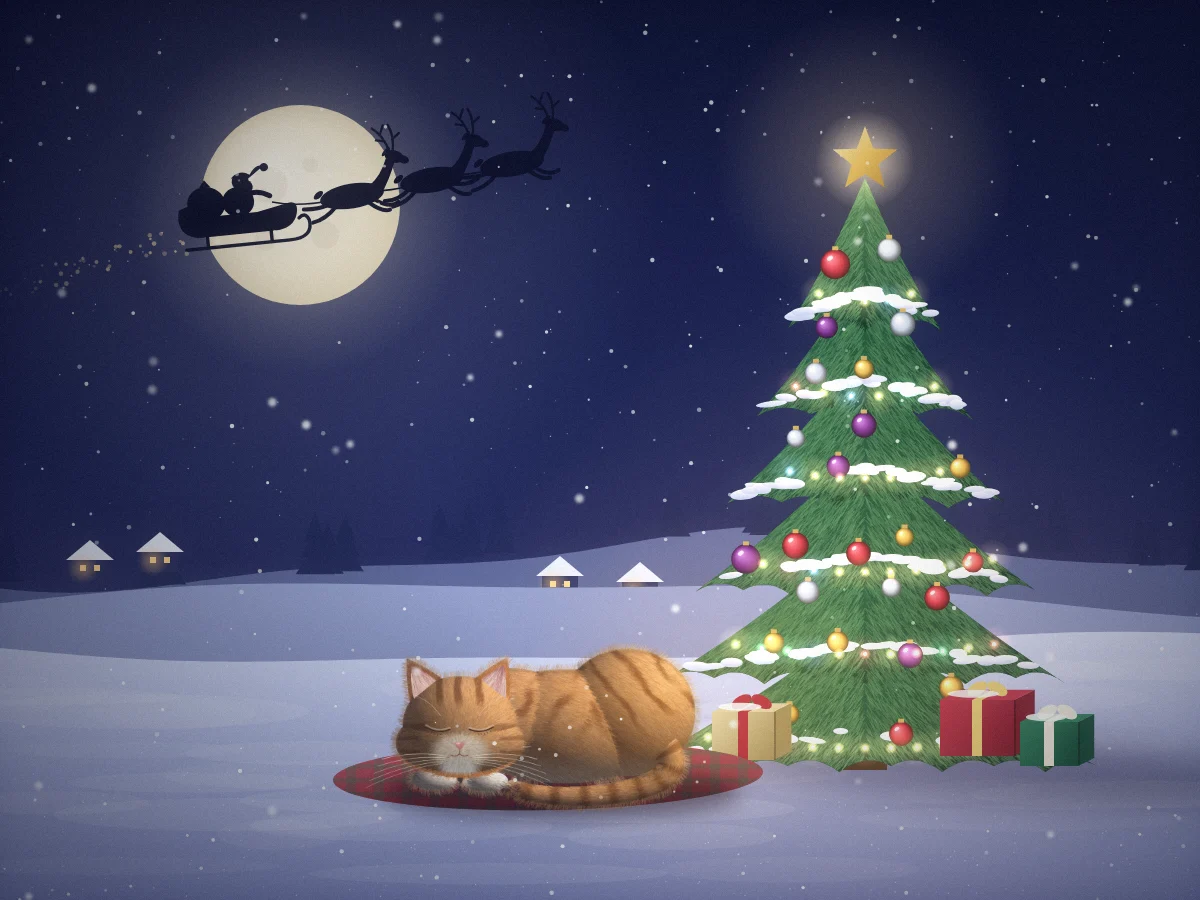
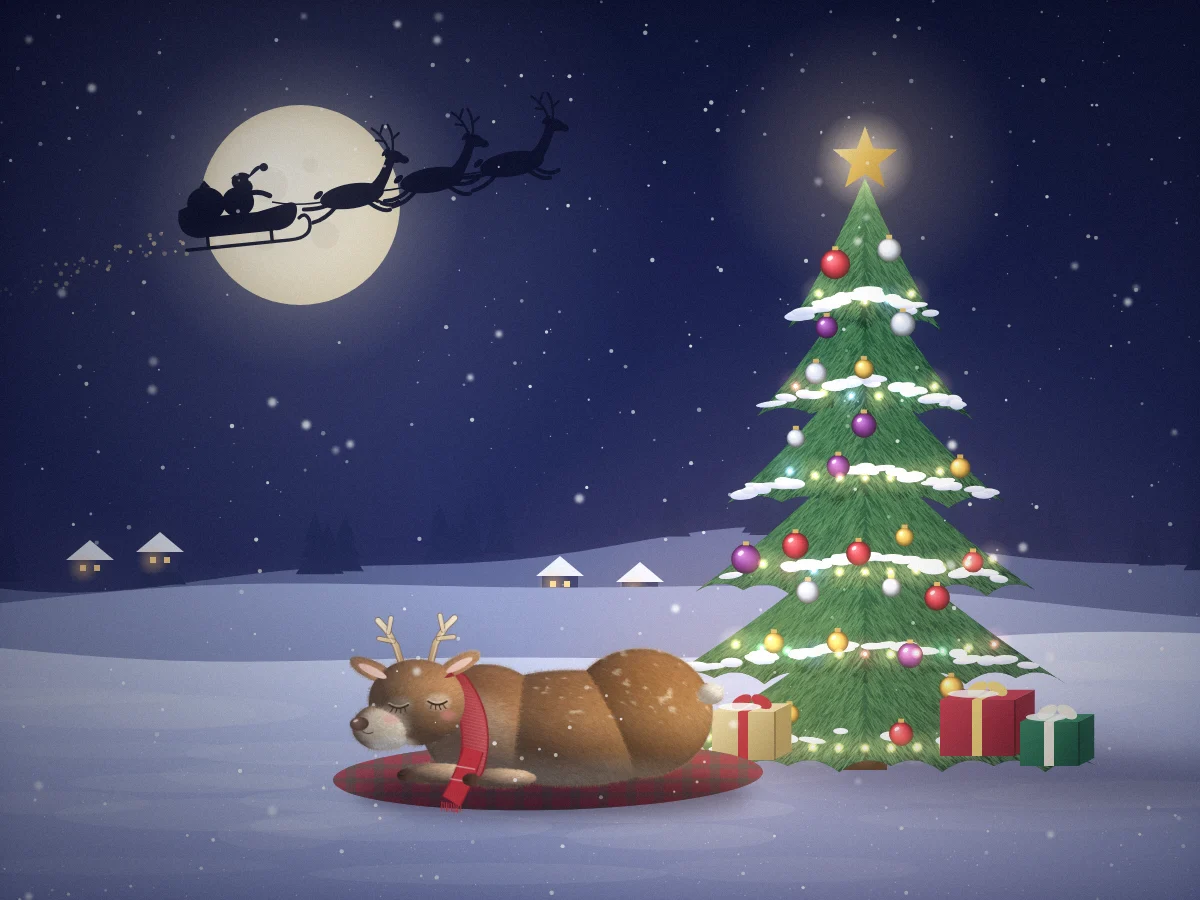
크리스마스 그림의 고양이를 아기 순록으로, 앱 아이콘을 금빛 초승달로
- 빨간 목도리를 두르고 잠든 아기 순록을 털 붓질 방식으로 그림(art/paint-reindeer.html)
- 앱 아이콘을 밤하늘 위 금빛 초승달과 별로 교체(art/icon.svg)

Claude-Session: https://claude.ai/code/session_01WQPL9icqm5yigwD27gnSHH

Changed region(s): [[0.2775, 0.6844, 0.6167, 0.9022]]

diff --git a/art/paint-reindeer.html b/art/paint-reindeer.html
@@ -1,0 +1,247 @@
+<!doctype html>
+<!-- Paints a cute sleeping reindeer (fur brushed strand by strand) on a transparent canvas, for the Christmas scene.
+     Run art/render.js to use it. -->
+<meta charset="utf-8">
+<canvas id="c" width="1200" height="900"></canvas>
+<script>
+const W = 1200, H = 900;
+const cv = document.getElementById('c'), ctx = cv.getContext('2d');
+let seed = 1224;
+const rnd = () => { seed |= 0; seed = seed + 0x6D2B79F5 | 0; let t = Math.imul(seed ^ seed >>> 15, 1 | seed); t = t + Math.imul(t ^ t >>> 7, 61 | t) ^ t; return ((t ^ t >>> 14) >>> 0) / 4294967296; };
+const clamp = (v, a = 0, b = 1) => Math.max(a, Math.min(b, v));
+const lerp = (a, b, t) => a + (b - a) * t;
+const mix = (c1, c2, t) => [lerp(c1[0], c2[0], t), lerp(c1[1], c2[1], t), lerp(c1[2], c2[2], t)];
+const smooth = (a, b, x) => { const t = clamp((x - a) / (b - a)); return t * t * (3 - 2 * t); };
+// value noise
+const NG = 256, grid = new Float32Array(NG * NG).map(() => rnd());
+function noise(x, y) {
+  const xi = Math.floor(x), yi = Math.floor(y), xf = x - xi, yf = y - yi;
+  const g = (i, j) => grid[((j & 255) * NG) + (i & 255)];
+  const u = xf * xf * (3 - 2 * xf), v = yf * yf * (3 - 2 * yf);
+  return lerp(lerp(g(xi, yi), g(xi + 1, yi), u), lerp(g(xi, yi + 1), g(xi + 1, yi + 1), u), v);
+}
+const fbm = (x, y) => noise(x, y) * 0.6 + noise(x * 2.1, y * 2.1) * 0.3 + noise(x * 4.3, y * 4.3) * 0.1;
+
+/* ---------------- geometry ---------------- */
+const BODY = { x: 720, y: 600, rx: 270, ry: 135 };
+const HAUNCH = { x: 880, y: 565, rx: 168, ry: 150 };
+const CHEST = { x: 520, y: 590, rx: 150, ry: 138 };
+const HEAD = { x: 360, y: 540, rx: 112, ry: 100 };
+const MUZZLE = { x: 282, y: 598, rx: 72, ry: 54 };
+const EARS = [{ x: 258, y: 466, rx: 58, ry: 21, rot: 0.45 }, { x: 458, y: 452, rx: 56, ry: 20, rot: -0.5 }];
+const LEGS = [{ x: 410, y: 706, rx: 88, ry: 24 }, { x: 556, y: 716, rx: 82, ry: 23 }];
+const TAIL = { x: 1042, y: 520, rx: 32, ry: 25 };
+const ell = (e) => { const p = new Path2D(); p.ellipse(e.x, e.y, e.rx, e.ry, e.rot || 0, 0, Math.PI * 2); return p; };
+const headPath = () => { const p = ell(HEAD); p.addPath(ell(MUZZLE)); EARS.forEach((e) => p.addPath(ell(e))); return p; };
+const parts = [
+  { id: 1, path: () => { const p = ell(BODY); p.addPath(ell(HAUNCH)); p.addPath(ell(CHEST)); return p; } },
+  { id: 2, path: () => ell(TAIL) },
+  { id: 3, path: () => { const p = ell(LEGS[0]); p.addPath(ell(LEGS[1])); return p; } },
+  { id: 4, path: headPath },
+];
+
+/* part-id map + soft mask */
+const idC = document.createElement('canvas'); idC.width = W; idC.height = H; const ic = idC.getContext('2d');
+parts.forEach(pt => { ic.fillStyle = `rgb(${pt.id * 60},0,0)`; ic.fill(pt.path()); });
+const idData = ic.getImageData(0, 0, W, H).data;
+const partAt = (x, y) => { x |= 0; y |= 0; if (x < 0 || y < 0 || x >= W || y >= H) return 0; return Math.round(idData[(y * W + x) * 4] / 60); };
+const mC = document.createElement('canvas'); mC.width = W; mC.height = H; const mc = mC.getContext('2d');
+mc.fillStyle = '#fff'; parts.forEach(pt => mc.fill(pt.path()));
+const mRaw = mc.getImageData(0, 0, W, H).data;
+// separable box blur (3 passes ~ gaussian) of the silhouette, used for edges, rim light and occlusion
+const mData = (() => {
+  let a = new Float32Array(W * H); for (let i = 0; i < W * H; i++) a[i] = mRaw[i * 4 + 3] / 255;
+  const r = 9, tmp = new Float32Array(W * H);
+  for (let pass = 0; pass < 3; pass++) {
+    for (let y = 0; y < H; y++) { let acc = 0; for (let x = -r; x <= r; x++) acc += a[y * W + clamp(x, 0, W - 1)];
+      for (let x = 0; x < W; x++) { tmp[y * W + x] = acc / (2 * r + 1); acc += a[y * W + Math.min(W - 1, x + r + 1)] - a[y * W + Math.max(0, x - r)]; } }
+    for (let x = 0; x < W; x++) { let acc = 0; for (let y = -r; y <= r; y++) acc += tmp[clamp(y, 0, H - 1) * W + x];
+      for (let y = 0; y < H; y++) { a[y * W + x] = acc / (2 * r + 1); acc += tmp[Math.min(H - 1, y + r + 1) * W + x] - tmp[Math.max(0, y - r) * W + x]; } }
+  }
+  return a;
+})();
+const softAt = (x, y) => { x = clamp(x | 0, 0, W - 1); y = clamp(y | 0, 0, H - 1); return mData[y * W + x]; };
+
+/* ---------------- shading model ---------------- */
+const LIGHT = (() => { const v = [0.62, -0.62, 0.48]; const d = Math.hypot(...v); return v.map(c => c / d); })();
+const C = { dark: [96, 60, 38], mid: [160, 106, 66], light: [200, 150, 104], cream: [244, 226, 200], white: [252, 246, 236] };
+function sphereN(e, x, y) {
+  const c = Math.cos(-(e.rot || 0)), s = Math.sin(-(e.rot || 0)), dx = x - e.x, dy = y - e.y;
+  const u = (dx * c - dy * s) / e.rx, v = (dx * s + dy * c) / e.ry; const r2 = u * u + v * v;
+  return [u, v, Math.sqrt(Math.max(0.02, 1 - r2)), r2];
+}
+const best = (list, x, y) => { const c = list.map((e) => sphereN(e, x, y)).filter((q) => q[3] < 1); return c.sort((p, q) => q[2] - p[2])[0] || sphereN(list[0], x, y); };
+function surface(x, y) {
+  const pid = partAt(x, y); if (!pid) return null;
+  let n, col, fur = [1, 0], glow = 0;
+  const nz = fbm(x / 50, y / 50);
+  if (pid === 4) {
+    const onEar = EARS.find((e) => sphereN(e, x, y)[3] < 1 && sphereN(HEAD, x, y)[3] >= 1);
+    if (onEar) {
+      const [u, v] = sphereN(onEar, x, y); n = [u * 0.3, -0.6, 0.75];
+      col = mix(C.mid, C.light, 0.3 + 0.3 * nz); fur = [Math.cos(onEar.rot) * Math.sign(u || 1), Math.sin(onEar.rot) * Math.sign(u || 1)];
+    } else {
+      const s = best([HEAD, MUZZLE], x, y); n = [s[0], s[1], s[2]];
+      col = mix(C.mid, C.light, 0.45 + 0.3 * nz);
+      col = mix(col, C.dark, smooth(-0.3, -0.85, (y - HEAD.y) / HEAD.ry) * 0.35); // a little darker on the crown
+      const md = ((x - MUZZLE.x) / 66) ** 2 + ((y - MUZZLE.y) / 50) ** 2;
+      col = mix(col, C.cream, smooth(1.3, 0.3, md));
+      const chin = smooth(1.0, 0.2, ((x - (MUZZLE.x + 20)) / 70) ** 2 + ((y - (MUZZLE.y + 40)) / 26) ** 2);
+      col = mix(col, C.white, chin);
+      [[318, 548], [408, 540]].forEach(([ex, ey]) => { col = mix(col, C.cream, smooth(1, 0.2, ((x - ex) / 38) ** 2 + ((y - ey) / 26) ** 2) * 0.55); });
+      glow = Math.max(smooth(1.2, 0.3, md), chin) * 0.5;
+      fur = [x - (MUZZLE.x - 30), y - (MUZZLE.y - 10)];
+    }
+  } else if (pid === 1) {
+    const s = best([BODY, HAUNCH, CHEST], x, y); n = [s[0], s[1] * 1.1, s[2]];
+    const v = (y - BODY.y) / BODY.ry;
+    col = mix(C.mid, C.light, 0.25 + 0.35 * nz);
+    col = mix(col, C.dark, smooth(0.0, -0.9, v) * 0.55);
+    col = mix(col, C.cream, smooth(0.3, 0.9, v) * 0.85);
+    // fawn spots scattered over the back
+    const sp = noise(x / 11, y / 11);
+    if (v < -0.05 && x > 600 && sp > 0.84) col = mix(col, C.cream, smooth(0.84, 0.9, sp) * 0.6);
+    const chestFluff = smooth(1.4, 0.2, ((x - (CHEST.x - 60)) / 130) ** 2 + ((y - (CHEST.y + 40)) / 120) ** 2);
+    col = mix(col, C.cream, chestFluff * 0.45);
+    fur = [-(y - BODY.y) / BODY.ry * 0.5 + 1, (x - BODY.x) / BODY.rx * 0.5 + 0.4];
+  } else if (pid === 2) {
+    const s = sphereN(TAIL, x, y); n = [s[0], s[1], s[2]]; col = mix(C.cream, C.white, 0.6 + 0.3 * nz); fur = [1, -0.4]; glow = 0.3;
+  } else {
+    const e = LEGS[x < 485 ? 0 : 1]; const s = sphereN(e, x, y); n = [s[0], s[1], s[2]];
+    col = mix(C.mid, C.cream, 0.35 + 0.3 * nz); fur = [-1, 0.1];
+  }
+  const nl = Math.hypot(...n); n = n.map(c => c / nl);
+  const diff = Math.max(0, n[0] * LIGHT[0] + n[1] * LIGHT[1] + n[2] * LIGHT[2]);
+  const soft = softAt(x, y);
+  const ao = 0.74 + 0.26 * smooth(0.3, 0.92, soft);
+  const bright = lerp((0.42 + 0.74 * diff) * ao, 0.95, glow);
+  const rim = smooth(0.62, 0.35, soft) * smooth(0.2, 0.7, n[0] * 0.7 - n[1] * 0.7);
+  let c = col.map(v => v * bright);
+  c = mix(c, [255, 236, 210], rim * 0.5);
+  c = mix(c, [70, 74, 120], (1 - diff) * 0.12 * (1 - glow));
+  return { c, fur, pid, soft };
+}
+
+/* ---------------- antlers (drawn first, the head covers their bases) ---------------- */
+function antler(pts, tines, flip) {
+  ctx.save(); ctx.lineCap = 'round'; ctx.lineJoin = 'round';
+  const g = ctx.createLinearGradient(pts[0][0], pts[0][1], pts[pts.length - 1][0], pts[pts.length - 1][1]);
+  g.addColorStop(0, '#B08960'); g.addColorStop(0.6, '#E2C79C'); g.addColorStop(1, '#F6E6C8');
+  const stroke = (p, w) => { ctx.strokeStyle = '#6E5236'; ctx.lineWidth = w + 3; ctx.beginPath(); ctx.moveTo(...p[0]); for (let i = 1; i < p.length; i++) ctx.lineTo(...p[i]); ctx.stroke();
+    ctx.strokeStyle = g; ctx.lineWidth = w; ctx.beginPath(); ctx.moveTo(...p[0]); for (let i = 1; i < p.length; i++) ctx.lineTo(...p[i]); ctx.stroke(); };
+  stroke(pts, 13);
+  tines.forEach((t) => stroke(t, 9));
+  ctx.strokeStyle = 'rgba(255,250,235,0.55)'; ctx.lineWidth = 2.5; ctx.beginPath(); ctx.moveTo(pts[0][0] + 3 * flip, pts[0][1]); for (let i = 1; i < pts.length; i++) ctx.lineTo(pts[i][0] + 3 * flip, pts[i][1]); ctx.stroke();
+  ctx.restore();
+}
+function antlers() {
+  antler([[326, 456], [312, 410], [290, 372], [270, 350]], [[[306, 398], [272, 392]], [[294, 378], [300, 344]]], -1);
+  antler([[392, 448], [404, 402], [426, 366], [448, 344]], [[[410, 392], [446, 388]], [[421, 372], [414, 338]]], 1);
+}
+
+/* ---------------- painting ---------------- */
+function base() {
+  ctx.save(); ctx.filter = 'blur(24px)'; ctx.fillStyle = 'rgba(20,12,30,0.5)';
+  ctx.beginPath(); ctx.ellipse(680, 752, 460, 58, 0, 0, 7); ctx.fill(); ctx.restore();
+  const img = ctx.getImageData(0, 0, W, H), d = img.data;
+  for (let y = 300; y < 860; y++) for (let x = 150; x < 1120; x++) {
+    const s = surface(x, y); if (!s) continue;
+    const i = (y * W + x) * 4;
+    d[i] = s.c[0]; d[i + 1] = s.c[1]; d[i + 2] = s.c[2]; d[i + 3] = 255;
+  }
+  ctx.putImageData(img, 0, 0);
+}
+function strokeFur(x, y, s, len, width, alpha, out, tint) {
+  let [fx, fy] = s.fur; const fl = Math.hypot(fx, fy) || 1; fx /= fl; fy /= fl;
+  if (out) { fx = out[0]; fy = out[1]; }
+  const ang = Math.atan2(fy, fx) + (rnd() - 0.5) * 0.5;
+  const ex = x + Math.cos(ang) * len, ey = y + Math.sin(ang) * len;
+  const bend = (rnd() - 0.5) * len * 0.35;
+  const jitter = 0.82 + rnd() * 0.36;
+  const c = (tint ? mix(s.c, tint, 0.4) : s.c).map(v => clamp(v * jitter, 0, 255) | 0);
+  ctx.strokeStyle = `rgba(${c[0]},${c[1]},${c[2]},${alpha})`; ctx.lineWidth = width;
+  ctx.beginPath(); ctx.moveTo(x, y); ctx.quadraticCurveTo((x + ex) / 2 - Math.sin(ang) * bend, (y + ey) / 2 + Math.cos(ang) * bend, ex, ey); ctx.stroke();
+}
+function fur() {
+  ctx.lineCap = 'round';
+  ctx.save();
+  const clip = new Path2D(); parts.forEach(pt => clip.addPath(pt.path())); ctx.clip(clip);
+  for (let k = 0; k < 150000; k++) {
+    const x = 150 + rnd() * 970, y = 300 + rnd() * 560; const s = surface(x, y); if (!s) continue;
+    strokeFur(x, y, s, s.pid === 4 ? 3 + rnd() * 5 : 5 + rnd() * 8, 0.8 + rnd() * 1, 0.35 + rnd() * 0.3);
+  }
+  ctx.restore();
+  for (let k = 0; k < 200000; k++) {
+    const x = 150 + rnd() * 970, y = 300 + rnd() * 560; const soft = softAt(x, y);
+    if (soft < 0.4 || soft > 0.64) continue; const s = surface(x, y); if (!s) continue;
+    const gx = softAt(x + 3, y) - softAt(x - 3, y), gy = softAt(x, y + 3) - softAt(x, y - 3); const gl = Math.hypot(gx, gy) || 1;
+    const lit = clamp(0.5 - gx / gl * 0.5 + gy / gl * 0.5);
+    strokeFur(x, y, s, 3 + rnd() * 5, 0.6 + rnd() * 0.6, 0.3, [-gx / gl, -gy / gl], mix([200, 150, 104], [255, 236, 208], lit));
+  }
+}
+function scarf() {
+  const red = (a) => `rgba(196,44,58,${a})`;
+  // the loop around the neck sits behind the head
+  ctx.save();
+  const p = new Path2D(); p.rect(0, 0, W, H); p.addPath(headPath()); ctx.clip(p, 'evenodd');
+  ctx.lineCap = 'round';
+  ctx.strokeStyle = '#8E1F2C'; ctx.lineWidth = 64; ctx.beginPath(); ctx.moveTo(452, 500); ctx.quadraticCurveTo(516, 585, 486, 690); ctx.stroke();
+  ctx.strokeStyle = red(1); ctx.lineWidth = 56; ctx.stroke();
+  ctx.strokeStyle = 'rgba(255,190,190,0.25)'; ctx.lineWidth = 2;
+  for (let t = 0; t <= 1; t += 0.04) { // knit ribs across the band
+    const x = (1 - t) * (1 - t) * 452 + 2 * (1 - t) * t * 516 + t * t * 486, y = (1 - t) * (1 - t) * 500 + 2 * (1 - t) * t * 585 + t * t * 690;
+    ctx.beginPath(); ctx.moveTo(x - 26, y - 6); ctx.lineTo(x + 26, y + 6); ctx.stroke();
+  }
+  const sh = ctx.createLinearGradient(440, 0, 540, 0); sh.addColorStop(0, 'rgba(0,0,0,0.25)'); sh.addColorStop(1, 'rgba(255,240,220,0.18)');
+  ctx.strokeStyle = sh; ctx.lineWidth = 56; ctx.beginPath(); ctx.moveTo(452, 500); ctx.quadraticCurveTo(516, 585, 486, 690); ctx.stroke();
+  ctx.restore();
+  // the loose end drapes over the front legs
+  ctx.save(); ctx.lineCap = 'butt';
+  ctx.strokeStyle = '#8E1F2C'; ctx.lineWidth = 50; ctx.beginPath(); ctx.moveTo(492, 650); ctx.quadraticCurveTo(470, 720, 440, 770); ctx.stroke();
+  ctx.strokeStyle = red(1); ctx.lineWidth = 44; ctx.stroke();
+  ctx.strokeStyle = 'rgba(255,240,240,0.7)'; ctx.lineWidth = 3; // white stripes
+  [0.35, 0.6].forEach((t) => { const x = lerp(492, 440, t), y = lerp(650, 770, t); ctx.beginPath(); ctx.moveTo(x - 22, y - 4); ctx.lineTo(x + 22, y + 4); ctx.stroke(); });
+  ctx.strokeStyle = red(0.95); ctx.lineWidth = 3; ctx.lineCap = 'round';
+  for (let k = 0; k < 9; k++) { const x = 418 + k * 5.5, y = 772 + k * 0.8; ctx.beginPath(); ctx.moveTo(x, y); ctx.lineTo(x - 2 + rnd() * 4, y + 14 + rnd() * 6); ctx.stroke(); }
+  ctx.restore();
+}
+function face() {
+  // inner ears
+  EARS.forEach((e) => {
+    ctx.save(); ctx.translate(e.x, e.y); ctx.rotate(e.rot);
+    const g = ctx.createLinearGradient(-e.rx, 0, e.rx, 0); g.addColorStop(0, 'rgb(232,178,170)'); g.addColorStop(1, 'rgb(246,216,198)');
+    ctx.fillStyle = g; ctx.beginPath(); ctx.ellipse(0, 2, e.rx * 0.62, e.ry * 0.45, 0, 0, 7); ctx.fill();
+    ctx.restore();
+  });
+  // hooves peeking out at the front of the tucked legs
+  LEGS.forEach((l) => {
+    const g = ctx.createLinearGradient(l.x - l.rx - 10, l.y, l.x - l.rx + 30, l.y); g.addColorStop(0, '#2A1E1A'); g.addColorStop(1, '#5A4234');
+    ctx.fillStyle = g; ctx.beginPath(); ctx.ellipse(l.x - l.rx + 12, l.y + 4, 20, 15, 0, 0, 7); ctx.fill();
+    ctx.strokeStyle = 'rgba(20,12,10,0.8)'; ctx.lineWidth = 2; ctx.beginPath(); ctx.moveTo(l.x - l.rx - 4, l.y + 4); ctx.lineTo(l.x - l.rx + 8, l.y + 6); ctx.stroke();
+  });
+  // closed eyes with long lashes
+  [[318, 548, -1], [408, 540, 1]].forEach(([cx, cy, s]) => {
+    ctx.save(); ctx.lineCap = 'round';
+    ctx.strokeStyle = 'rgba(255,240,220,0.4)'; ctx.lineWidth = 6;
+    ctx.beginPath(); ctx.moveTo(cx - 22, cy - 5); ctx.quadraticCurveTo(cx, cy + 9, cx + 22, cy - 5); ctx.stroke();
+    ctx.strokeStyle = 'rgb(48,28,22)'; ctx.lineWidth = 4;
+    ctx.beginPath(); ctx.moveTo(cx - 22, cy - 2); ctx.quadraticCurveTo(cx, cy + 13, cx + 22, cy - 2); ctx.stroke();
+    ctx.lineWidth = 2.4;
+    for (let k = 0; k < 4; k++) { const t = 0.2 + k * 0.2, x = lerp(cx - 22, cx + 22, t), y = cy - 2 + 15 * t * (1 - t) * 2;
+      ctx.beginPath(); ctx.moveTo(x, y + 2); ctx.quadraticCurveTo(x + (t - 0.5) * 10, y + 9, x + (t - 0.5) * 16 + s * 2, y + 12); ctx.stroke(); }
+    ctx.restore();
+  });
+  // rosy cheeks
+  ctx.save(); ctx.filter = 'blur(5px)'; ctx.fillStyle = 'rgba(240,140,150,0.5)';
+  ctx.beginPath(); ctx.ellipse(300, 578, 20, 11, 0, 0, 7); ctx.ellipse(432, 570, 20, 11, 0, 0, 7); ctx.fill(); ctx.restore();
+  // soft brown nose and a little smile
+  const nx = 226, ny = 590;
+  const ng = ctx.createRadialGradient(nx - 6, ny - 6, 2, nx, ny, 22); ng.addColorStop(0, '#7A5446'); ng.addColorStop(1, '#3A2620');
+  ctx.fillStyle = ng; ctx.beginPath(); ctx.ellipse(nx, ny, 22, 16, -0.1, 0, 7); ctx.fill();
+  ctx.fillStyle = 'rgba(255,255,255,0.7)'; ctx.beginPath(); ctx.ellipse(nx - 8, ny - 7, 6, 3, -0.4, 0, 7); ctx.fill();
+  ctx.strokeStyle = 'rgb(80,50,40)'; ctx.lineWidth = 2.4; ctx.lineCap = 'round';
+  ctx.beginPath(); ctx.moveTo(nx + 6, ny + 16); ctx.quadraticCurveTo(nx + 18, ny + 28, nx + 32, ny + 20); ctx.stroke();
+}
+antlers(); base(); fur(); scarf(); face();
+window.done = true;
+</script>

diff --git a/art/paint-xmas.html b/art/paint-xmas.html
@@ -1,9 +1,9 @@
 <!doctype html>
-<!-- Paints the Christmas artwork: Santa's sleigh across the moon, a lit tree, and the sleeping cat (art/cat-cut.png).
+<!-- Paints the Christmas artwork: Santa's sleigh across the moon, a lit tree, and a sleeping reindeer (art/reindeer-cut.png).
      Run art/render.js to export assets/xmas.webp. -->
 <meta charset="utf-8">
 <canvas id="c" width="1200" height="900"></canvas>
-<img id="cat" src="cat-cut.png" hidden>
+<img id="cat" src="reindeer-cut.png" hidden>
 <script>
 const W = 1200, H = 900;
 const cv = document.getElementById('c'), ctx = cv.getContext('2d');
@@ -239,7 +239,7 @@ function cat() {
   ctx.globalAlpha = 1; const sh = ctx.createLinearGradient(0, -30, 0, 30); sh.addColorStop(0, 'rgba(255,255,255,0.12)'); sh.addColorStop(1, 'rgba(0,0,0,0.35)');
   ctx.fillStyle = sh; ctx.fillRect(-230, -40, 460, 80);
   ctx.restore();
-  ctx.drawImage(img, 0, 0, 1200, 900, 300, 504, 1200 * 0.38, 900 * 0.38);
+  ctx.drawImage(img, 0, 0, 1200, 900, 262, 470, 1200 * 0.43, 900 * 0.43);
   // warm tree light on the cat's right side
   ctx.save(); ctx.globalCompositeOperation = 'soft-light'; glow(700, 690, 180, '255,190,120', 0.5); ctx.restore();
 }

diff --git a/art/render.js b/art/render.js
@@ -15,6 +15,9 @@ const save = (url, file) => fs.writeFileSync(file, Buffer.from(url.split(',')[1]
   save(await p.evaluate(() => document.getElementById('c').toDataURL('image/webp', 0.86)), path.join(out, 'cat.webp'));
   await paint(p, 'paint-cat.html', '#cut');
   save(await p.evaluate(() => document.getElementById('c').toDataURL('image/png')), path.join(dir, 'cat-cut.png'));
+  await paint(p, 'paint-reindeer.html');
+  save(await p.evaluate(() => document.getElementById('c').toDataURL('image/png')), path.join(dir, 'reindeer-cut.png'));
+  if (preview) await p.locator('#c').screenshot({ path: path.join(preview, 'reindeer.png'), omitBackground: true });
   await paint(p, 'paint-xmas.html');
   save(await p.evaluate(() => document.getElementById('c').toDataURL('image/webp', 0.86)), path.join(out, 'xmas.webp'));
   if (preview) await p.locator('#c').screenshot({ path: path.join(preview, 'xmas.png') });

diff --git a/index.html b/index.html
@@ -370,7 +370,7 @@ input[type="range"] { width: 100%; accent-color: var(--gold); }
   if (XMAS) {
     document.documentElement.classList.add('xmas');
     $('#heroImg').src = 'assets/xmas.webp';
-    $('#heroImg').alt = '눈 내리는 밤, 산타의 썰매와 순록이 달을 가로지르고 반짝이는 트리 아래에서 고양이가 잠든 그림';
+    $('#heroImg').alt = '눈 내리는 밤, 산타의 썰매와 순록이 달을 가로지르고 반짝이는 트리 옆에서 빨간 목도리를 한 아기 순록이 잠든 그림';
     $('#sceneImg').src = 'assets/xmas.webp';
     $('.eyebrow').textContent = '메리 크리스마스 · 오늘 하루도 수고했어요';
     (function snowfall() {

diff --git a/README.md b/README.md
@@ -11,7 +11,7 @@
 - **앱을 열면 바로 재생하기** (기본은 꺼짐): 켜두면 앱을 열자마자 재생해요
 - **크리스마스 테마**: 11월 20일부터 1월 6일까지 눈 내리는 크리스마스 그림과 빨간 포인트로 바뀌어요
 - **잠들기 타이머**: 15분 / 30분 / 1시간 / 끄지 않기. 끝나기 몇 분 전부터 소리가 서서히 작아져요
-- **오르골 버전 켜기/끄기**: 끄면 부드러운 피아노, 켜면 금속 빗살이 튕기는 진짜 오르골 소리
+- **악기 고르기**: 피아노 / 오르골 / 칼림바
 - **알람·전화가 오면 멈춤**: 알람이나 전화가 울리면 자장가가 완전히 멈춰서 알람 소리를 가리지 않아요
 - **4-7-8 호흡 가이드**: 4초 들이쉬고, 7초 멈추고, 8초 내쉬기
 - 20초 동안 화면을 안 만지면 화면이 더 어두워져요
@@ -41,5 +41,5 @@ GitHub Pages 같은 곳에 올린 뒤 휴대폰으로 접속해요.
 - 직접 빌드하려면: `npm install && npm run sync` 후 `android/` 폴더를 Android Studio로 열기
 
 ## 그림
-`assets/cat.webp`는 `art/paint-cat.html`, `assets/xmas.webp`는 `art/paint-xmas.html`이 코드로 직접 그린 그림입니다.
+`assets/cat.webp`는 `art/paint-cat.html`, `assets/xmas.webp`는 `art/paint-xmas.html`(순록은 `art/paint-reindeer.html`)이 코드로 직접 그린 그림입니다. 앱 아이콘 원본은 `art/icon.svg`예요.
 `node art/render.js`로 다시 그릴 수 있어요.
